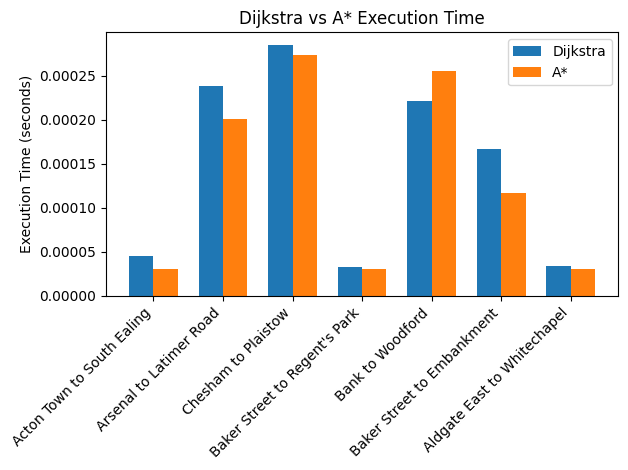
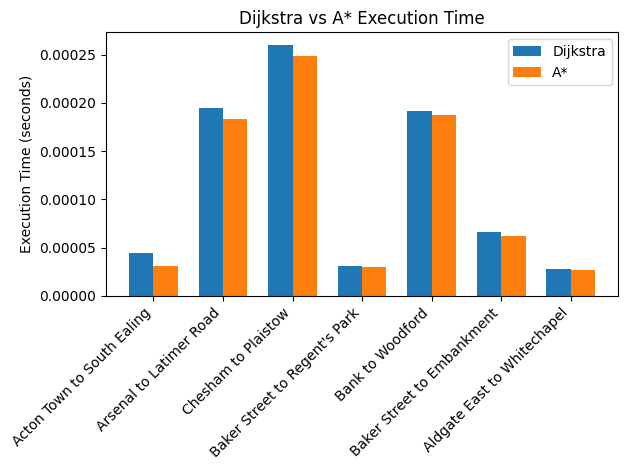
Part 4 more test cases

diff --git a/Final/part4/part4.py b/Final/part4/part4.py
@@ -95,6 +95,7 @@ def heuristic(station_id, destination_id):
     return euclidean_distance(station_coord, destination_coord)
 
 def A_Star(graph, source, destination, heuristic):
+
     open_set = PriorityQueue()
     open_set.put(source, 0 + heuristic(source, destination))  # Corrected this line
     predecessors = {source: None}
@@ -118,11 +119,14 @@ def A_Star(graph, source, destination, heuristic):
     return predecessors, reconstruct_path(predecessors, source, destination)
 
 def reconstruct_path(predecessors, start, end):
-    path = []
-    while end is not None:
-        path.append(end)
-        end = predecessors[end]
-    return path[::-1] 
+        if end not in predecessors:
+            return []  # Path not found
+        path = []
+        while end is not None:
+            path.append(end)
+            end = predecessors.get(end)
+        path.reverse()
+        return path  
 
 
 def parse_stations(file_path):
@@ -248,7 +252,7 @@ def plot_performance_comparison(labels, dijkstra_times, astar_times, title='Dijk
     fig.tight_layout()
 
     #plt.show()
-    plt.savefig('performance_comparison1.png', bbox_inches='tight')
+    plt.savefig('performance_comparison4.png', bbox_inches='tight')
     
 station_pairs = [
     (1, 234),  # Short distance
@@ -258,6 +262,11 @@ station_pairs = [
     (13, 301),  # Same Line, Long Distance
     (11, 87),   # Different Lines, No Transfers
     (3, 295),   # Different Lines, Multiple Transfers
+    (117, 42),  # Heathrow Terminals 1, 2 & 3 to Canary Wharf
+    (282, 247), # Wembley Park to Stratford
+    (88, 299),  # Epping to Wimbledon
+    (35, 192),  # Brixton to Oxford Circus
+    (280, 167),  # Watford to Moorgate
 
 ]
 
